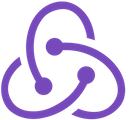
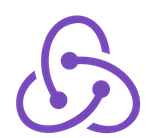
delete unneeded images

diff --git a/index.html b/index.html
@@ -99,7 +99,7 @@
 									<i id="icon" title="JavaScript" class="devicon-javascript-plain colored"></i>
 									<i id="icon" title="Rails" class="devicon-rails-plain-wordmark colored"></i>
 									<div class="redux-div">
-										<img src="images/redux5.png" id="icon redux-icon" title="Redux" alt="Redux Icon" class="redux-img">
+										<img src="images/redux.png" id="icon redux-icon" title="Redux" alt="Redux Icon" class="redux-img">
 										<p class="purple-redux-tag">Redux</p>
 									</div>
 									<i id="icon" title="Git" class="devicon-git-plain-wordmark colored"></i>
